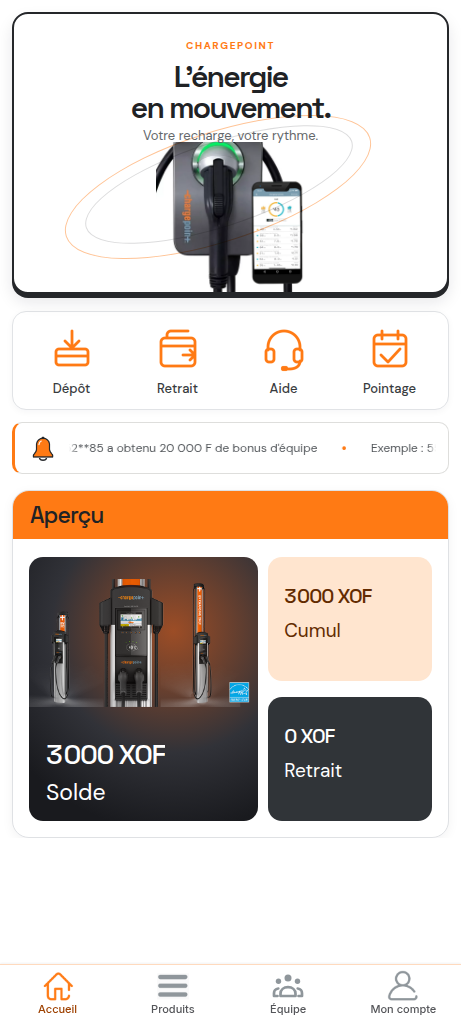
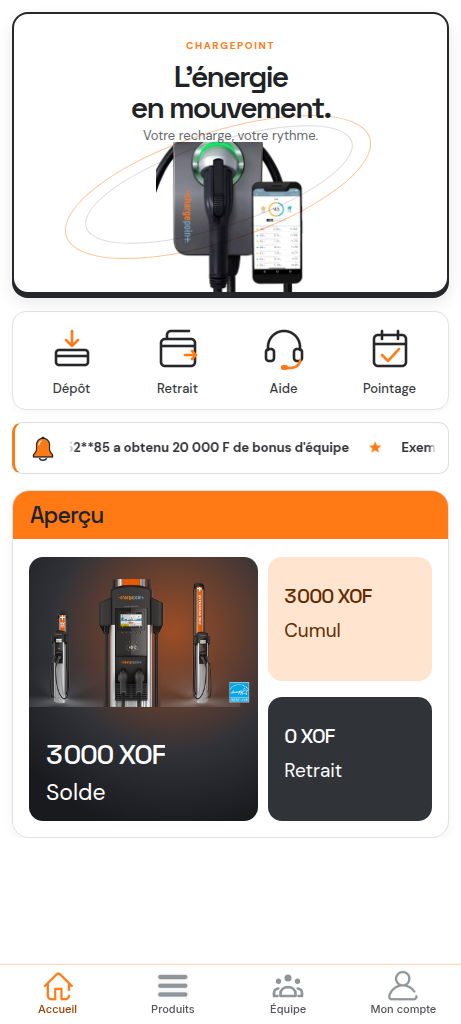
Update home page layout and assets
Replit-Commit-Author: Agent

diff --git a/client/src/pages/home.css b/client/src/pages/home.css
@@ -34,11 +34,11 @@
 .cp-notice-marquee { flex:1; min-width:0; overflow:hidden; -webkit-mask-image:linear-gradient(90deg,transparent,#000 8px,#000 calc(100% - 8px),transparent); mask-image:linear-gradient(90deg,transparent,#000 8px,#000 calc(100% - 8px),transparent); }
 .cp-notice-track { display:flex; width:max-content; animation:cp-notice-scroll 45s linear infinite; }
 .cp-notice-group { display:flex; flex:none; align-items:center; }
-.cp-notice-item { display:inline-flex; flex:none; align-items:center; gap:24px; margin-right:24px; white-space:nowrap; }
-.cp-notice-item::after { content:"•"; color:var(--cp-orange); font-size:15px; line-height:1; }
+.cp-notice-item { display:inline-flex; flex:none; align-items:center; gap:18px; margin-right:18px; color:#303236; font-size:13px; font-weight:700; white-space:nowrap; }
+.cp-notice-item img { display:block; flex:none; width:16px; height:16px; object-fit:contain; }
 .cp-notice:hover .cp-notice-track,.cp-notice:focus-visible .cp-notice-track { animation-play-state:paused; }
 @keyframes cp-notice-scroll { to { transform:translateX(-50%); } }
-@media (prefers-reduced-motion:reduce) { .cp-notice-track { animation:none; }.cp-notice-group:not(:first-child),.cp-notice-item:not(:first-child),.cp-notice-item::after { display:none; } }
+@media (prefers-reduced-motion:reduce) { .cp-notice-track { animation:none; }.cp-notice-group:not(:first-child),.cp-notice-item:not(:first-child) { display:none; } }
 .cp-overview { margin:16px 12px 0; padding:0 16px 16px; border:1px solid #dfe1e4; border-radius:17px; background:#fff; overflow:hidden; box-shadow:0 3px 12px rgba(17,24,39,.05); }
 .cp-section-heading { display:flex; align-items:center; margin:0 -16px 18px; padding:10px 17px; background:var(--cp-orange); }
 .cp-section-heading h2 { margin:0; font:500 23px/28px "Space Grotesk"; letter-spacing:-.04em; }

diff --git a/client/src/pages/home.tsx b/client/src/pages/home.tsx
@@ -8,6 +8,7 @@ import { Dialog, DialogContent, DialogHeader, DialogTitle } from "@/components/u
 import "./home.css";
 
 import noticeBell from "@/assets/notice-bell.png";
+import announcementStar from "@/assets/announcement-star.png";
 import depositIcon from "@/assets/home-actions/deposit.png";
 import withdrawalIcon from "@/assets/home-actions/withdrawal.png";
 import supportIcon from "@/assets/home-actions/support.png";
@@ -88,7 +89,10 @@ export default function HomePage() {
                 {[0, 1].map((copy) => (
                   <span className="cp-notice-group" key={copy}>
                     {homeAnnouncements.map((announcement, index) => (
-                      <span className="cp-notice-item" key={`${copy}-${index}`}>{announcement}</span>
+                      <span className="cp-notice-item" key={`${copy}-${index}`}>
+                        <span>{announcement}</span>
+                        <img src={announcementStar} alt="" aria-hidden="true" />
+                      </span>
                     ))}
                   </span>
                 ))}
